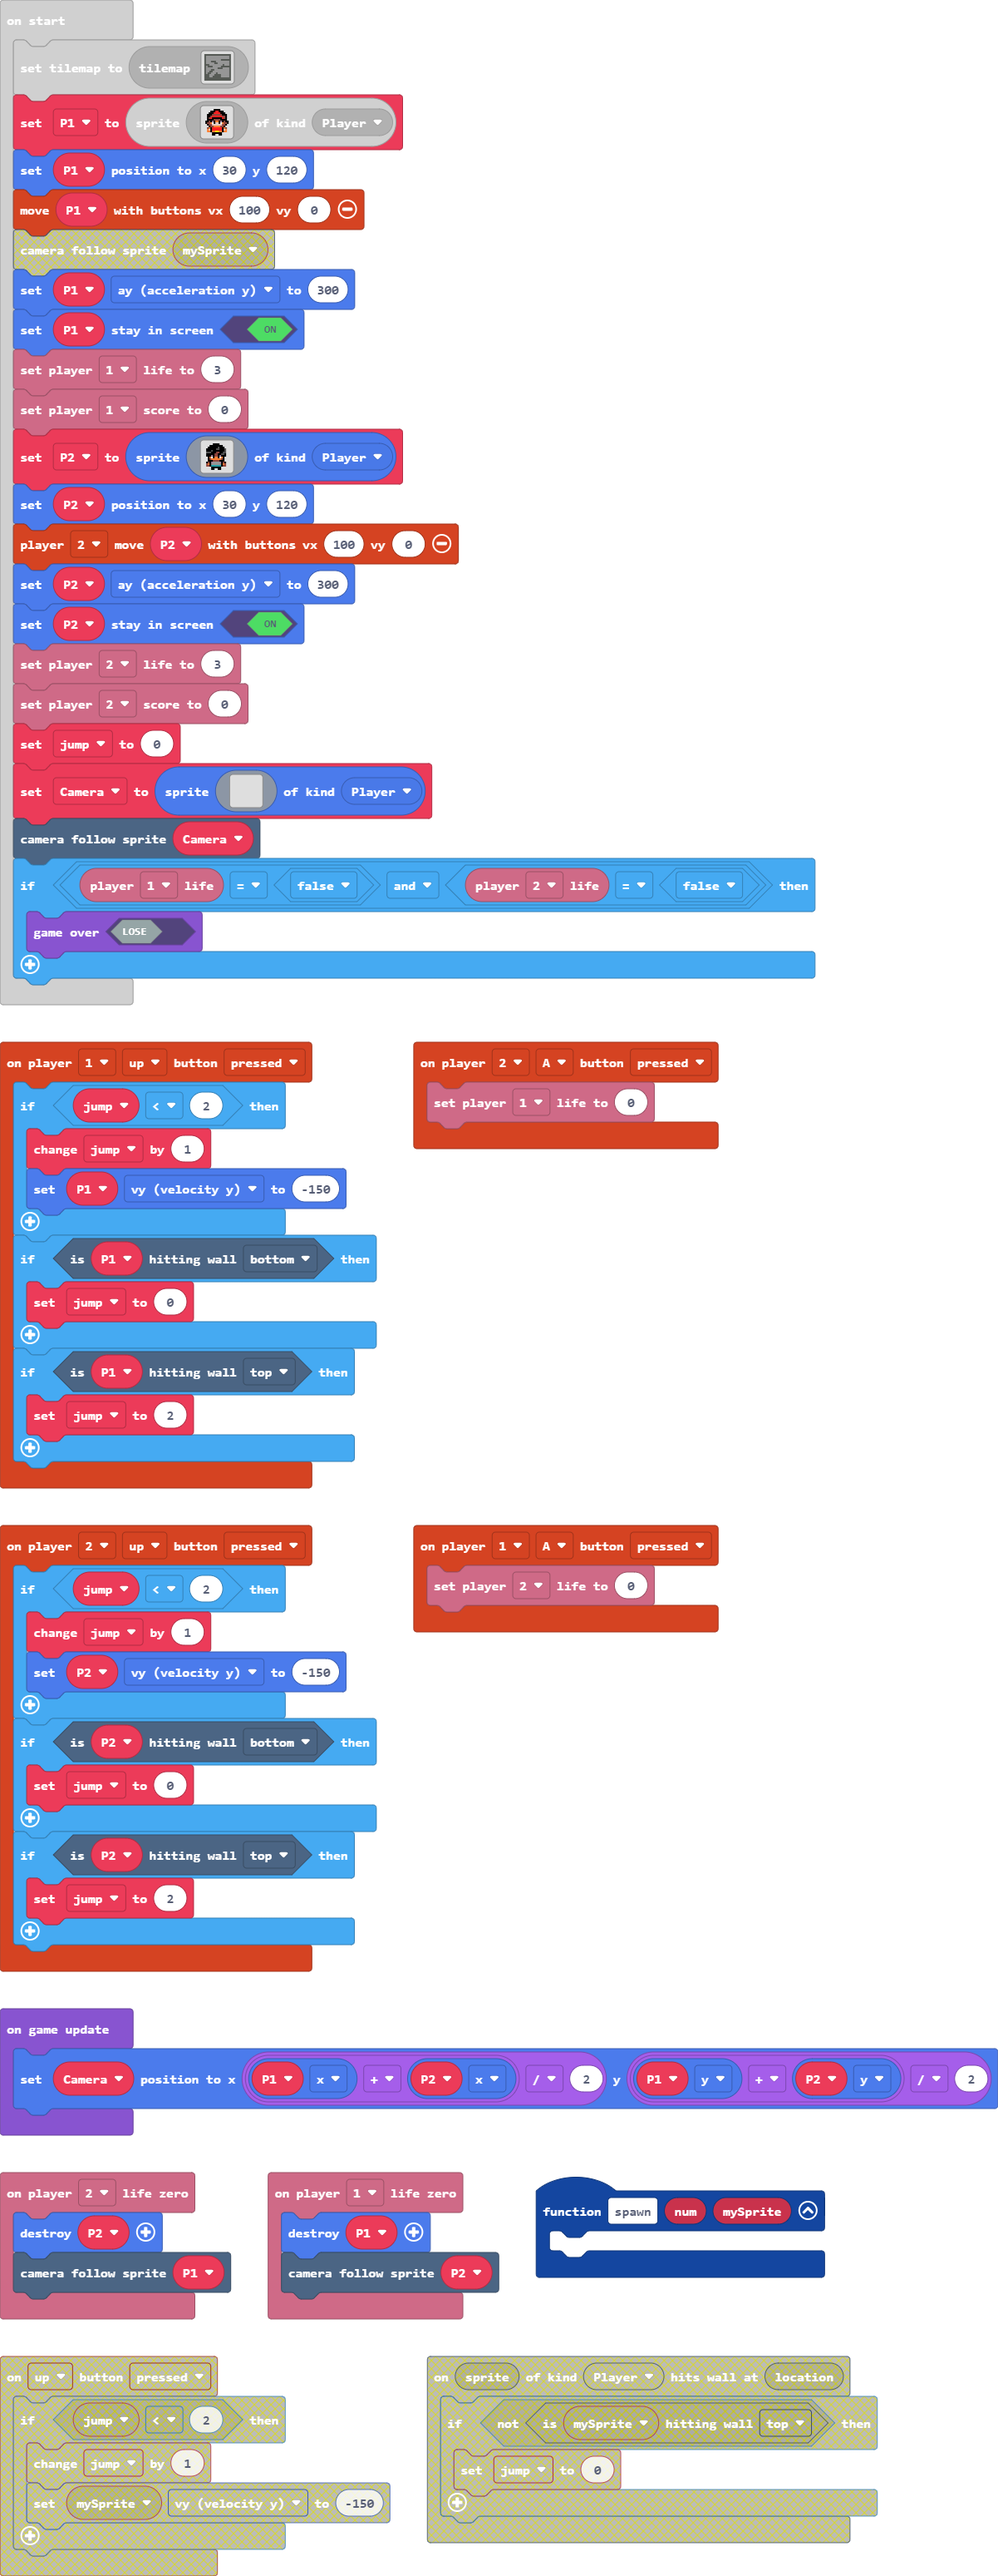
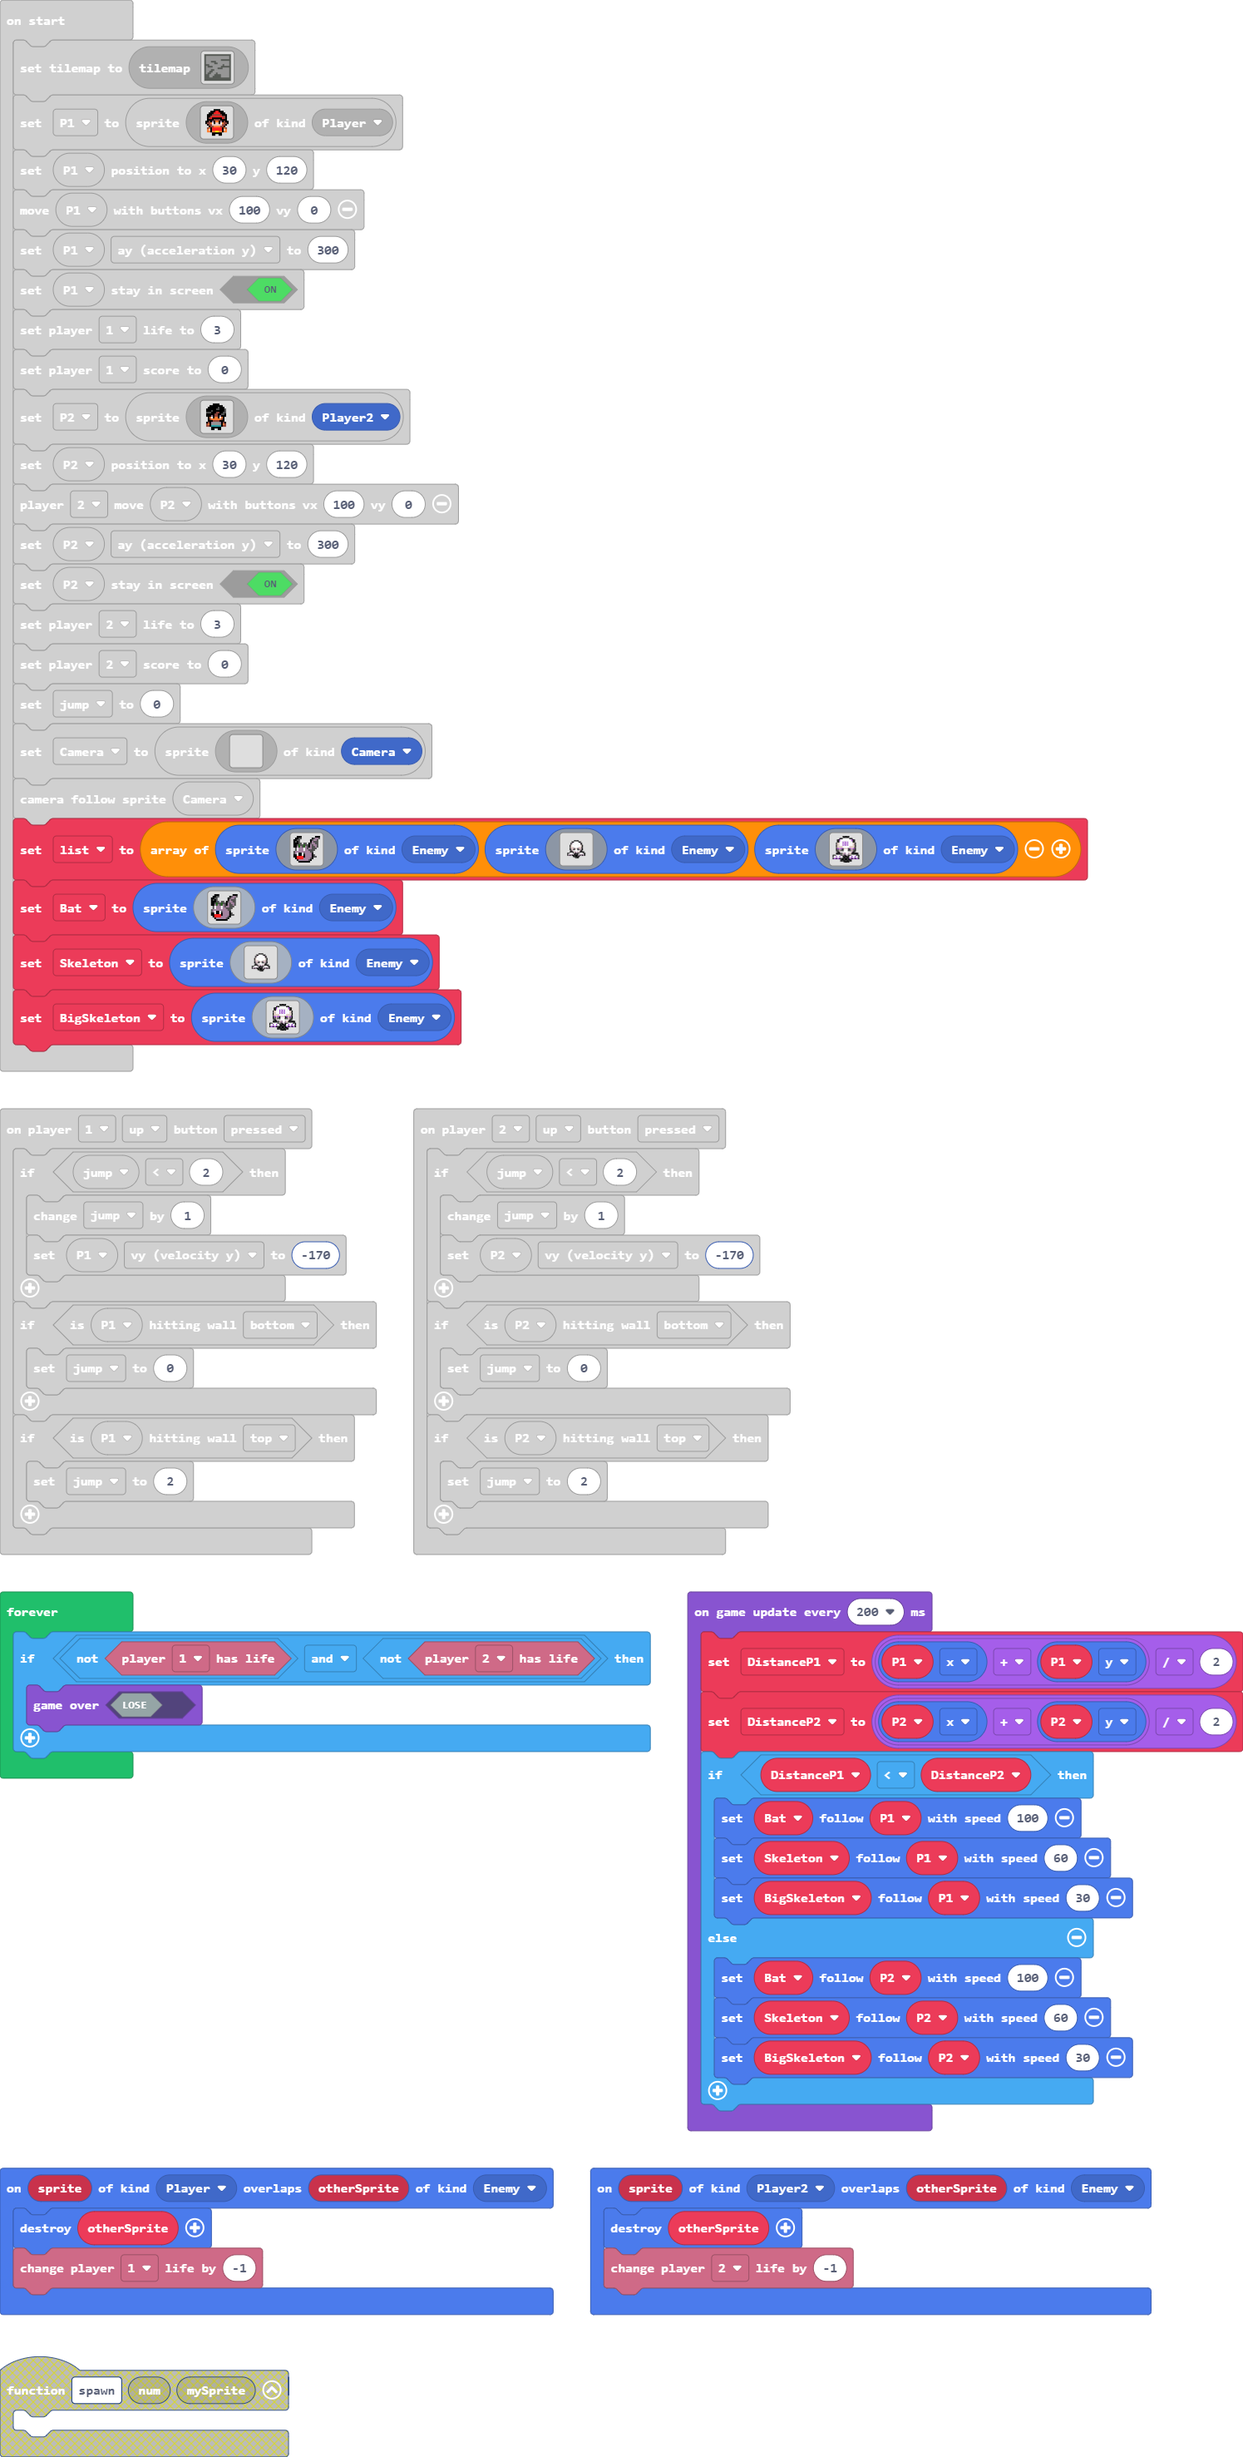
Added enemies that follow

diff --git a/main.ts b/main.ts
@@ -1,7 +1,11 @@
+namespace SpriteKind {
+    export const Camera = SpriteKind.create()
+    export const Player2 = SpriteKind.create()
+}
 controller.player1.onButtonEvent(ControllerButton.Up, ControllerButtonEvent.Pressed, function () {
     if (jump < 2) {
         jump += 1
-        P1.vy = -150
+        P1.vy = -170
     }
     if (P1.isHittingTile(CollisionDirection.Bottom)) {
         jump = 0
@@ -16,7 +20,7 @@ controller.player2.onButtonEvent(ControllerButton.A, ControllerButtonEvent.Press
 controller.player2.onButtonEvent(ControllerButton.Up, ControllerButtonEvent.Pressed, function () {
     if (jump < 2) {
         jump += 1
-        P2.vy = -150
+        P2.vy = -170
     }
     if (P2.isHittingTile(CollisionDirection.Bottom)) {
         jump = 0
@@ -25,9 +29,10 @@ controller.player2.onButtonEvent(ControllerButton.Up, ControllerButtonEvent.Pres
         jump = 2
     }
 })
-function spawn (num: number, mySprite: Sprite) {
-	
-}
+sprites.onOverlap(SpriteKind.Player2, SpriteKind.Enemy, function (sprite, otherSprite) {
+    sprites.destroy(otherSprite)
+    info.player2.changeLifeBy(-1)
+})
 controller.player1.onButtonEvent(ControllerButton.A, ControllerButtonEvent.Pressed, function () {
     info.player2.setLife(0)
 })
@@ -39,6 +44,12 @@ info.player2.onLifeZero(function () {
     sprites.destroy(P2)
     scene.cameraFollowSprite(P1)
 })
+sprites.onOverlap(SpriteKind.Player, SpriteKind.Enemy, function (sprite, otherSprite) {
+    sprites.destroy(otherSprite)
+    info.player1.changeLifeBy(-1)
+})
+let DistanceP2 = 0
+let DistanceP1 = 0
 let jump = 0
 let P2: Sprite = null
 let P1: Sprite = null
@@ -84,7 +95,7 @@ P2 = sprites.create(img`
     e e f 6 6 6 6 6 6 f e e . 
     . . . f f f f f f . . . . 
     . . . f f . . f f . . . . 
-    `, SpriteKind.Player)
+    `, SpriteKind.Player2)
 P2.setPosition(30, 120)
 controller.player2.moveSprite(P2, 100, 0)
 P2.ay = 300
@@ -109,11 +120,164 @@ let Camera = sprites.create(img`
     . . . . . . . . . . . . . . . . 
     . . . . . . . . . . . . . . . . 
     . . . . . . . . . . . . . . . . 
-    `, SpriteKind.Player)
+    `, SpriteKind.Camera)
 scene.cameraFollowSprite(Camera)
-if (info.player1.life() == false && info.player2.life() == false) {
-    game.gameOver(false)
-}
+let list = [sprites.create(img`
+    . . f f f . . . . . . . . f f f 
+    . f f c c . . . . . . f c b b c 
+    f f c c . . . . . . f c b b c . 
+    f c f c . . . . . . f b c c c . 
+    f f f c c . c c . f c b b c c . 
+    f f c 3 c c 3 c c f b c b b c . 
+    f f b 3 b c 3 b c f b c c b c . 
+    . c 1 b b b 1 b c b b c c c . . 
+    . c 1 b b b 1 b b c c c c . . . 
+    c b b b b b b b b b c c . . . . 
+    c b 1 f f 1 c b b b b f . . . . 
+    f f 1 f f 1 f b b b b f c . . . 
+    f f 2 2 2 2 f b b b b f c c . . 
+    . f 2 2 2 2 b b b b c f . . . . 
+    . . f b b b b b b c f . . . . . 
+    . . . f f f f f f f . . . . . . 
+    `, SpriteKind.Enemy), sprites.create(img`
+    ........................
+    ........................
+    ........................
+    ........................
+    ..........ffff..........
+    ........ff1111ff........
+    .......fb111111bf.......
+    .......f11111111f.......
+    ......fd11111111df......
+    ......fd11111111df......
+    ......fddd1111dddf......
+    ......fbdbfddfbdbf......
+    ......fcdcf11fcdcf......
+    .......fb111111bf.......
+    ......fffcdb1bdffff.....
+    ....fc111cbfbfc111cf....
+    ....f1b1b1ffff1b1b1f....
+    ....fbfbffffffbfbfbf....
+    .........ffffff.........
+    ...........fff..........
+    ........................
+    ........................
+    ........................
+    ........................
+    `, SpriteKind.Enemy), sprites.create(img`
+    .........ffffff.........
+    .........ffffff.........
+    ......fff111111fff......
+    ....ffa1111111111aff....
+    ....ffa1111111111aff....
+    ....ff111a1a1a1111ff....
+    ...fdd111a1a1a1111ddf...
+    ...fdd111a1a1a1111ddf...
+    ...fdd111a1a1a1111ddf...
+    ...fddddd111111dddddf...
+    ...fddddd111111dddddf...
+    ...faadaafddddfaadaaf...
+    ...fccdccf1111fccdccf...
+    ...fccdccf1111fccdccf...
+    ....ffb1111111111bff....
+    ...ffffccdbb11bddffffff.
+    ...ffffccdbb11bddffffff.
+    fcc1111ccbffbbfcc1111ccf
+    f11a11a11ffffff11a11a11f
+    f11a11a11ffffff11a11a11f
+    faafaafffffffffaafaafaaf
+    .......ffffffffff.......
+    .......ffffffffff.......
+    ..........fffff.........
+    `, SpriteKind.Enemy)]
+let Bat = sprites.create(img`
+    . . f f f . . . . . . . . f f f 
+    . f f c c . . . . . . f c b b c 
+    f f c c . . . . . . f c b b c . 
+    f c f c . . . . . . f b c c c . 
+    f f f c c . c c . f c b b c c . 
+    f f c 3 c c 3 c c f b c b b c . 
+    f f b 3 b c 3 b c f b c c b c . 
+    . c 1 b b b 1 b c b b c c c . . 
+    . c 1 b b b 1 b b c c c c . . . 
+    c b b b b b b b b b c c . . . . 
+    c b 1 f f 1 c b b b b f . . . . 
+    f f 1 f f 1 f b b b b f c . . . 
+    f f 2 2 2 2 f b b b b f c c . . 
+    . f 2 2 2 2 b b b b c f . . . . 
+    . . f b b b b b b c f . . . . . 
+    . . . f f f f f f f . . . . . . 
+    `, SpriteKind.Enemy)
+let Skeleton = sprites.create(img`
+    ........................
+    ........................
+    ........................
+    ........................
+    ..........ffff..........
+    ........ff1111ff........
+    .......fb111111bf.......
+    .......f11111111f.......
+    ......fd11111111df......
+    ......fd11111111df......
+    ......fddd1111dddf......
+    ......fbdbfddfbdbf......
+    ......fcdcf11fcdcf......
+    .......fb111111bf.......
+    ......fffcdb1bdffff.....
+    ....fc111cbfbfc111cf....
+    ....f1b1b1ffff1b1b1f....
+    ....fbfbffffffbfbfbf....
+    .........ffffff.........
+    ...........fff..........
+    ........................
+    ........................
+    ........................
+    ........................
+    `, SpriteKind.Enemy)
+let BigSkeleton = sprites.create(img`
+    .........ffffff.........
+    .........ffffff.........
+    ......fff111111fff......
+    ....ffa1111111111aff....
+    ....ffa1111111111aff....
+    ....ff111a1a1a1111ff....
+    ...fdd111a1a1a1111ddf...
+    ...fdd111a1a1a1111ddf...
+    ...fdd111a1a1a1111ddf...
+    ...fddddd111111dddddf...
+    ...fddddd111111dddddf...
+    ...faadaafddddfaadaaf...
+    ...fccdccf1111fccdccf...
+    ...fccdccf1111fccdccf...
+    ....ffb1111111111bff....
+    ...ffffccdbb11bddffffff.
+    ...ffffccdbb11bddffffff.
+    fcc1111ccbffbbfcc1111ccf
+    f11a11a11ffffff11a11a11f
+    f11a11a11ffffff11a11a11f
+    faafaafffffffffaafaafaaf
+    .......ffffffffff.......
+    .......ffffffffff.......
+    ..........fffff.........
+    `, SpriteKind.Enemy)
 game.onUpdate(function () {
     Camera.setPosition((P1.x + P2.x) / 2, (P1.y + P2.y) / 2)
+})
+forever(function () {
+    if (!(info.player1.hasLife()) && !(info.player2.hasLife())) {
+        game.gameOver(false)
+    }
+})
+game.onUpdateInterval(200, function () {
+    DistanceP1 = (P1.x + P1.y) / 2
+    DistanceP2 = (P2.x + P2.y) / 2
+    if (DistanceP1 < DistanceP2) {
+        Bat.follow(P1, 100)
+        Skeleton.follow(P1, 60)
+        BigSkeleton.follow(P1, 30)
+    } else {
+        Bat.follow(P2, 100)
+        Skeleton.follow(P2, 60)
+        BigSkeleton.follow(P2, 30)
+    }
 })
